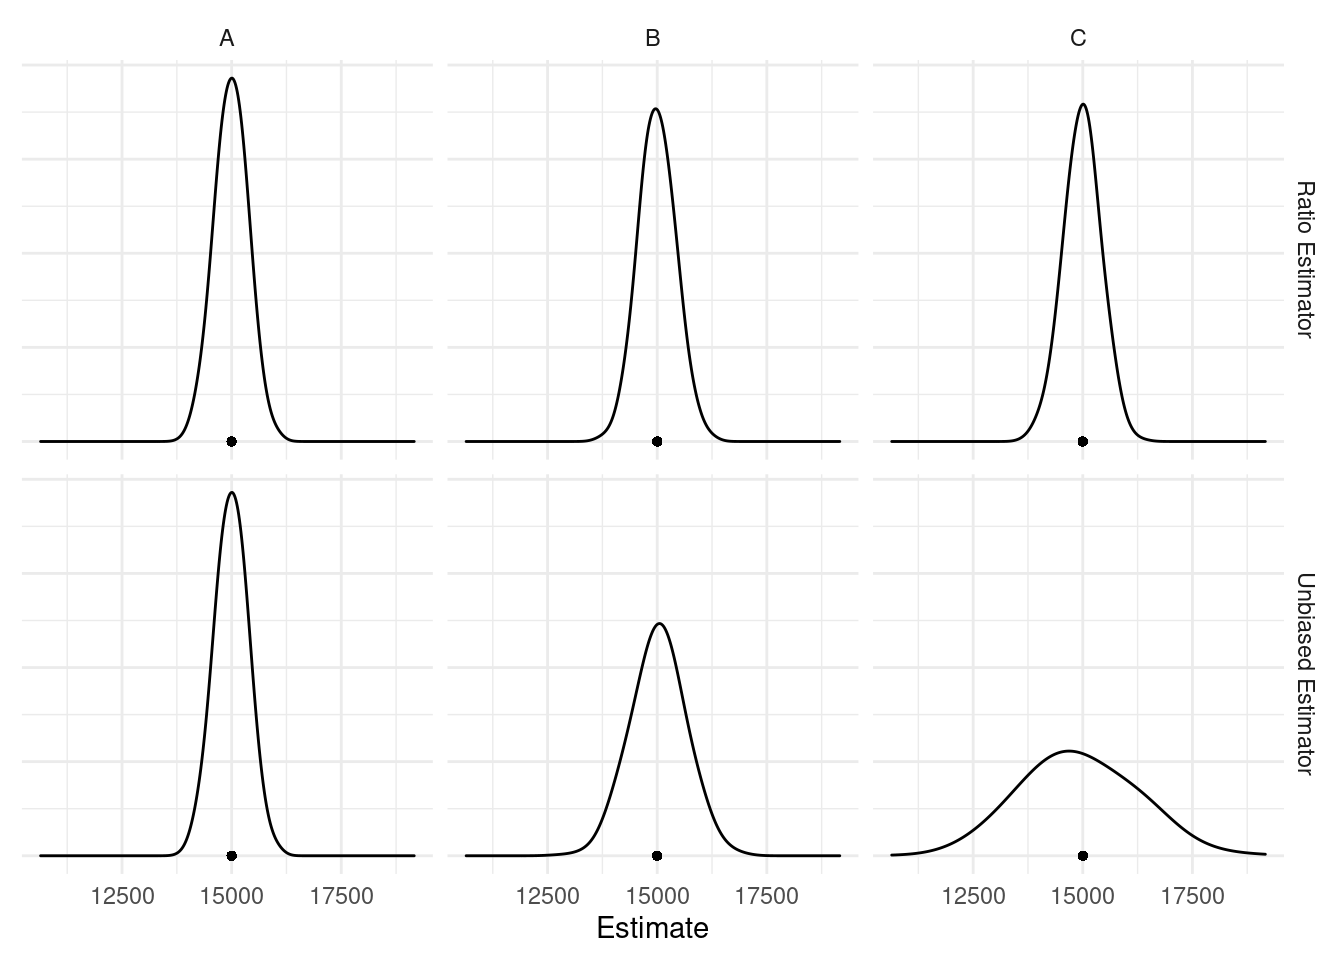
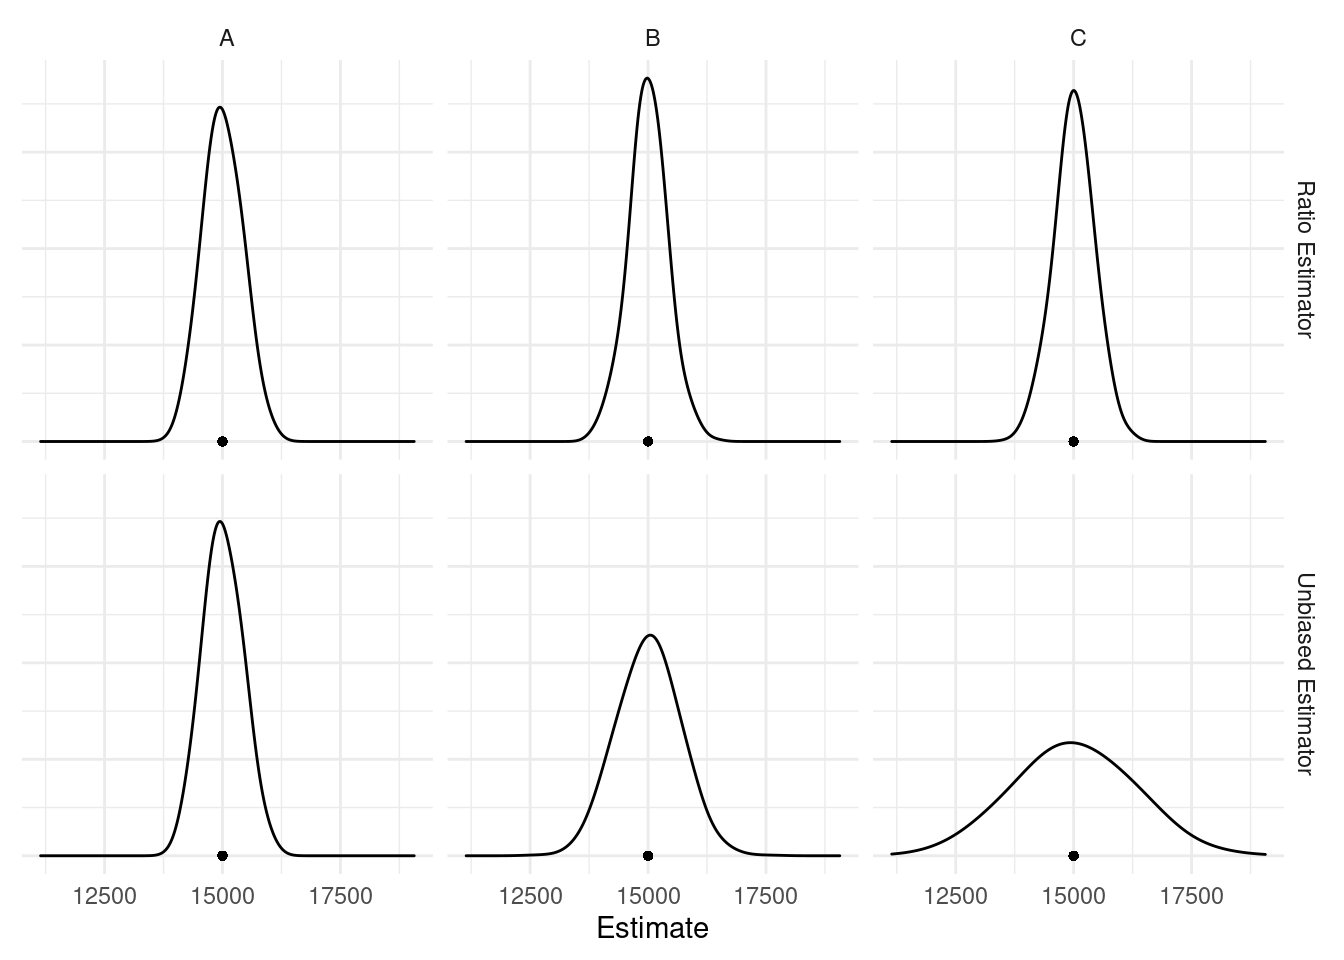
lecture 10/12 edit

diff --git a/lecture-10-12-2022.html b/lecture-10-12-2022.html
@@ -320,7 +320,7 @@ estimated variance of <span class="math inline">\(\hat\tau\)</span> can
 be derived by multiplying the estimated variance of <span
 class="math inline">\(\hat\mu\)</span> by <span
 class="math inline">\(M^2\)</span> to get <span class="math display">\[
-  \hat{V}(\hat\tau) = M^2\left(1 - \frac{n}{N}\right)\frac{s_r^2}{n} \ \
+  \hat{V}(\hat\tau) = N^2\left(1 - \frac{n}{N}\right)\frac{s_r^2}{n} \ \
 \ \text{where} \ \ \ s_r^2 = \frac{\sum_{i \in \mathcal{S}}(y_i-\hat\mu
 m_i)^2}{n-1},
 \]</span> and <span class="math inline">\(\hat\mu = \left. \sum_{i \in
@@ -426,10 +426,10 @@ A
 Ratio Estimator
 </td>
 <td style="text-align:center;">
-136547.6
+167507.6
 </td>
 <td style="text-align:center;">
-739.0470
+818.5538
 </td>
 </tr>
 <tr>
@@ -440,10 +440,10 @@ A
 Unbiased Estimator
 </td>
 <td style="text-align:center;">
-136547.6
+167507.6
 </td>
 <td style="text-align:center;">
-739.0470
+818.5538
 </td>
 </tr>
 <tr>
@@ -454,10 +454,10 @@ B
 Ratio Estimator
 </td>
 <td style="text-align:center;">
-168217.7
+170491.1
 </td>
 <td style="text-align:center;">
-820.2869
+825.8114
 </td>
 </tr>
 <tr>
@@ -468,10 +468,10 @@ B
 Unbiased Estimator
 </td>
 <td style="text-align:center;">
-376838.7
+413091.0
 </td>
 <td style="text-align:center;">
-1227.7438
+1285.4432
 </td>
 </tr>
 <tr>
@@ -482,10 +482,10 @@ C
 Ratio Estimator
 </td>
 <td style="text-align:center;">
-173854.6
+178123.2
 </td>
 <td style="text-align:center;">
-833.9175
+844.0929
 </td>
 </tr>
 <tr>
@@ -496,10 +496,10 @@ C
 Unbiased Estimator
 </td>
 <td style="text-align:center;">
-1659870.4
+1522862.1
 </td>
 <td style="text-align:center;">
-2576.7191
+2468.0860
 </td>
 </tr>
 </tbody>
